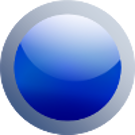
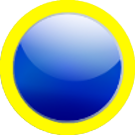
New background and ball colors. Removed unneeded old images

Changed region(s): [[0.0, 0.0, 1.0, 1.0]]

diff --git a/Classes/GameScene.cpp b/Classes/GameScene.cpp
@@ -24,9 +24,6 @@ static int BALL_COUNT_CEILING = 24;
 static int LABEL_FONT_SIZE = 60;
 static int POINTS_LABEL_FONT_SIZE = 60;
 static int LABEL_MARGIN = 15;
-static int LABEL_COLOR_R = 91;
-static int LABEL_COLOR_B = 236;
-static int LABEL_COLOR_G = 255;
 
 //////////////////////////////////////////////////////////////////////////////////////////
 // Creates the game layer, and adds it to this scene.
@@ -68,7 +65,7 @@ bool GameScene::init()
     this->setTouchEnabled(true);
 
     // add background
-    CCSprite* background = CCSprite::create("background_2.png");
+    CCSprite* background = CCSprite::create(BackgroundImage);
     background->setPosition(
         ccp(windowSize.width / 2 + origin.x, windowSize.height / 2 + origin.y));
     this->addChild(background, ZIndexBackground);
@@ -77,7 +74,7 @@ bool GameScene::init()
     char scoreText[25];
     sprintf(scoreText, " %d", _score);
     _scoreLabel = CCLabelTTF::create(scoreText, "Marker Felt.ttf", LABEL_FONT_SIZE);
-    _scoreLabel->setColor(ccc3(LABEL_COLOR_R, LABEL_COLOR_B, LABEL_COLOR_G));
+    _scoreLabel->setColor(ccc3(ScoreLabelR, ScoreLabelG, ScoreLabelB));
     _scoreLabel->setAnchorPoint(ccp(0, 0));
     _scoreLabel->cocos2d::CCNode::setPosition(
         ccp(LABEL_MARGIN, windowSize.height - topScreenAdjust()));

diff --git a/Classes/LossScene.cpp b/Classes/LossScene.cpp
@@ -11,6 +11,7 @@
 #include "GameScene.h"
 #include "NativeUtils.h"
 #include "PlayGameConstants.h"
+#include "Constants.h"
 
 USING_NS_CC;
 
@@ -42,7 +43,7 @@ bool LossScene::init()
     CCPoint origin = CCDirector::sharedDirector()->getVisibleOrigin();
 
     //add background
-    CCSprite* background = CCSprite::create("background_2.png");
+    CCSprite* background = CCSprite::create(BackgroundImage);
     background->setPosition(ccp(windowSize.width / 2 + origin.x, windowSize.height / 2 + origin.y));
     this->addChild(background, ZIndexBackground);
 
@@ -50,6 +51,7 @@ bool LossScene::init()
     char scoreText[25];
     sprintf(scoreText, "Score: %d", _score);
     CCLabelTTF* scoreLabel = CCLabelTTF::create(scoreText, "Marker Felt.ttf", LABEL_FONT_SIZE);
+    scoreLabel->setColor(ccc3(ScoreLabelR, ScoreLabelG, ScoreLabelB));
 
     //add game buttons
     CCMenuItemImage* gameLogo = CCMenuItemImage::create("text_you_lose.png", "text_you_lose.png", this, NULL);

diff --git a/Classes/FirstScene.cpp b/Classes/FirstScene.cpp
@@ -46,7 +46,7 @@ bool FirstScene::init()
     CCPoint origin = CCDirector::sharedDirector()->getVisibleOrigin();
 
     //add background
-    CCSprite* background = CCSprite::create("background_2.png");
+    CCSprite* background = CCSprite::create(BackgroundImage);
     background->setPosition(ccp(windowSize.width / 2 + origin.x, windowSize.height / 2 + origin.y));
     this->addChild(background, ZIndexBackground);
 

diff --git a/Classes/Constants.h b/Classes/Constants.h
@@ -15,6 +15,12 @@
 #define BallSelected 3
 #define BallNotSelected 4
 
+#define ScoreLabelR 192
+#define ScoreLabelG 60
+#define ScoreLabelB 232
+
+#define BackgroundImage "background.png"
+
 //exception values
 #define BallSelectedColorNotFound 5
 #define BallColorFromFileNotFound 6
